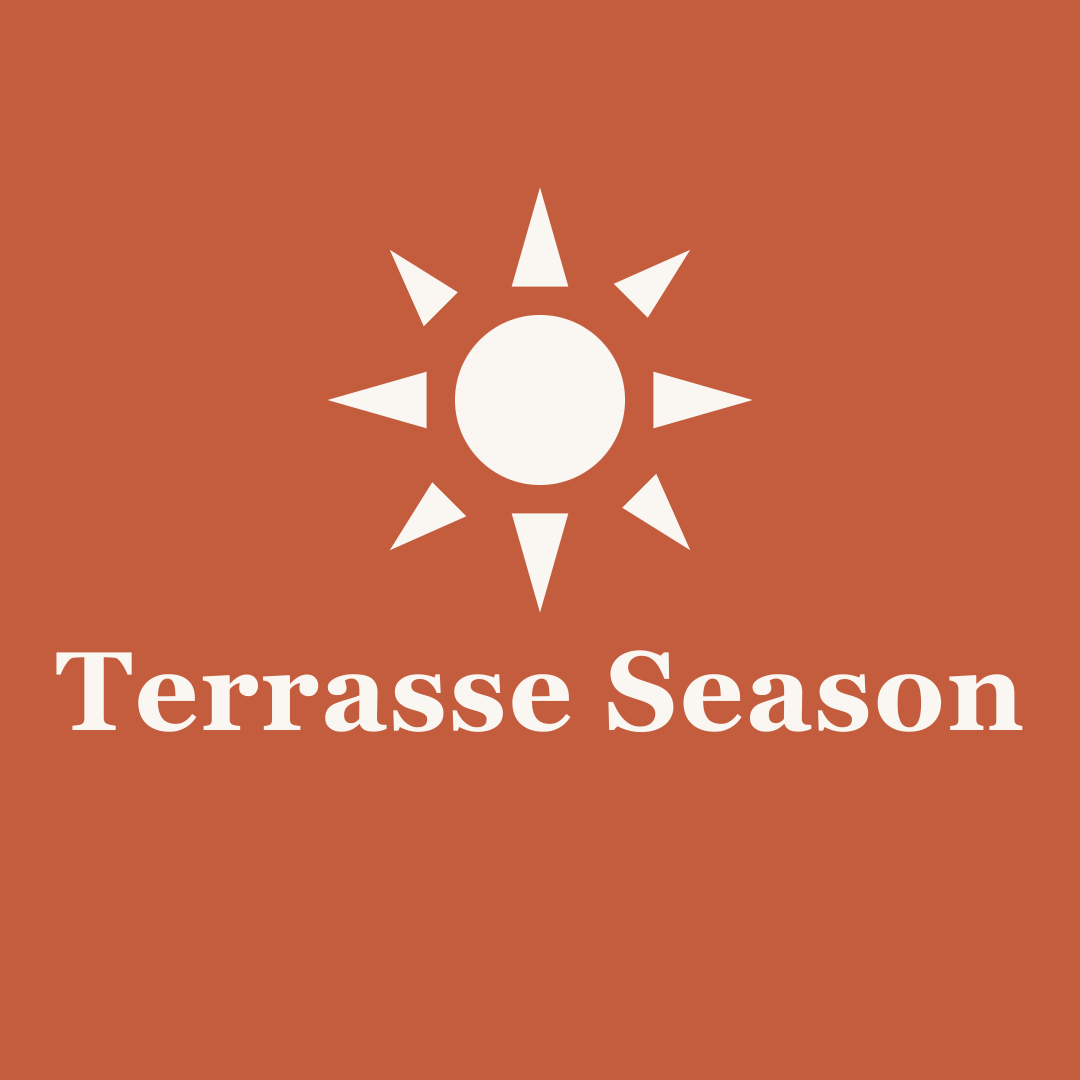
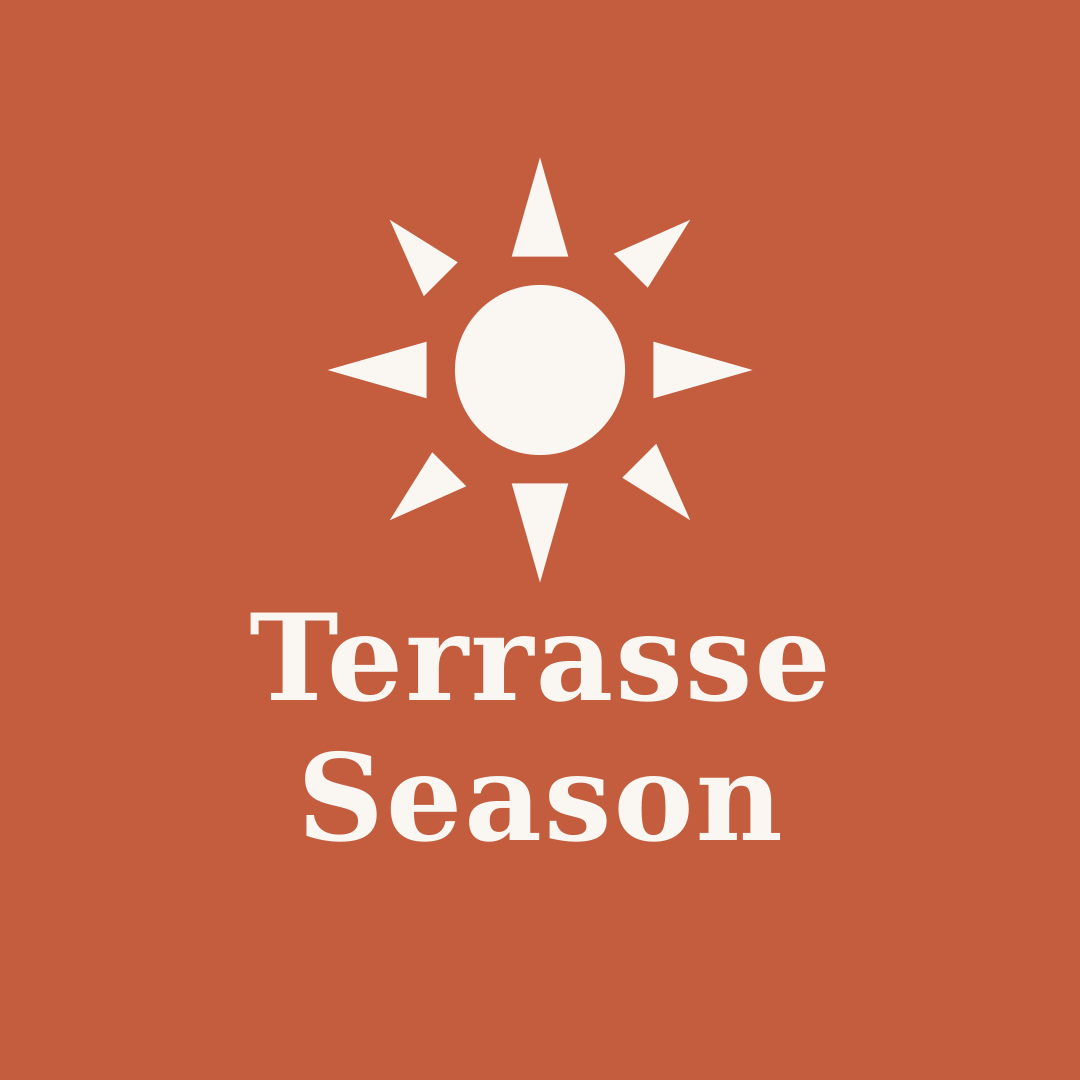
Split Instagram profile pic text onto two lines
- "Terrasse" and "Season" now on separate lines (font-size 120)
- Sun moved up slightly (sunCy 400→370) for better vertical balance
- Made font loading optional so script works without a Next.js build cache

https://claude.ai/code/session_01QF8FJuXMCXb8xvZ3hxR1if

Changed region(s): [[0.0306, 0.1528, 0.9472, 0.7944], [0.3667, 0.4278, 0.4278, 0.5194]]

diff --git a/scripts/generate-icons.js b/scripts/generate-icons.js
@@ -5,15 +5,20 @@ import { readFileSync } from 'fs';
 
 const __dirname = dirname(fileURLToPath(import.meta.url));
 
-// Embed Playfair Display (Latin subset) from Next.js font cache
+// Embed Playfair Display (Latin subset) from Next.js font cache (optional)
 const playfairPath = join(__dirname, '../.next/static/media/eaead17c7dbfcd5d-s.p.woff2');
-const playfairB64 = readFileSync(playfairPath).toString('base64');
-const playfairFontFace = `@font-face {
+let playfairFontFace = '';
+try {
+  const playfairB64 = readFileSync(playfairPath).toString('base64');
+  playfairFontFace = `@font-face {
   font-family: 'Playfair Display';
   font-style: normal;
   font-weight: 700;
   src: url('data:font/woff2;base64,${playfairB64}') format('woff2');
 }`;
+} catch {
+  // Font cache not available; will fall back to Georgia/serif
+}
 
 // sunFill: fraction of canvas the sun occupies (0–1)
 // For "any" icons: ~0.75 (fills most of the icon)
@@ -45,7 +50,7 @@ function makeSunSvg(size, sunFill = 0.75) {
 function makeInstagramSvg(bg, fg) {
   const s = 1080;
   const cx = s / 2;
-  const sunCy = 400;
+  const sunCy = 370;
   const sunScale = (s * 0.42) / 32;
 
   const tx = (x) => cx + (x - 16) * sunScale;
@@ -67,14 +72,23 @@ function makeInstagramSvg(bg, fg) {
   <polygon points="${tp([[5.4,26.6],[8.4,21.8],[10.8,24.2]])}" fill="${fg}"/>
   <circle cx="${cx}" cy="${sunCy}" r="${6 * sunScale}" fill="${fg}"/>
   <text
-    x="${cx}" y="730"
+    x="${cx}" y="700"
     text-anchor="middle"
     font-family="Playfair Display, Georgia, serif"
-    font-size="112"
+    font-size="120"
     font-weight="700"
     fill="${fg}"
     letter-spacing="2"
-  >Terrasse Season</text>
+  >Terrasse</text>
+  <text
+    x="${cx}" y="840"
+    text-anchor="middle"
+    font-family="Playfair Display, Georgia, serif"
+    font-size="120"
+    font-weight="700"
+    fill="${fg}"
+    letter-spacing="2"
+  >Season</text>
 </svg>`;
 }
 
